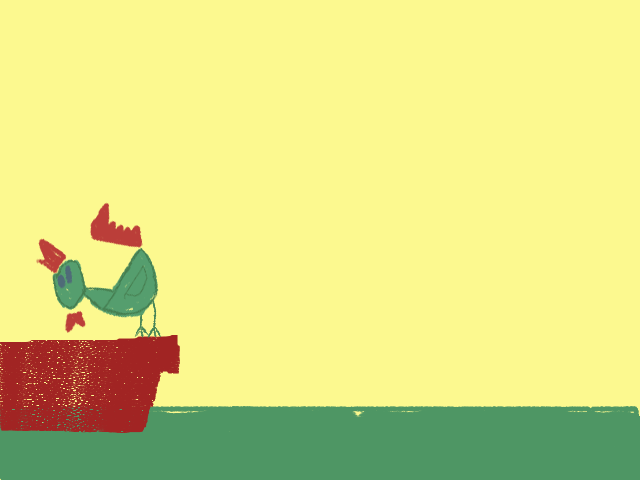
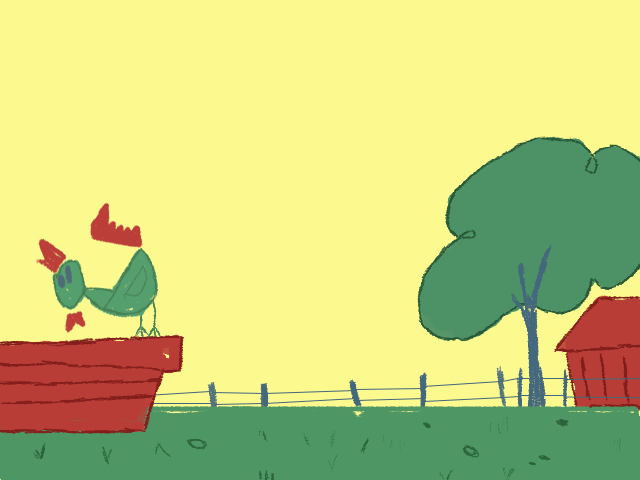
added saute minigame and updated backdrops

diff --git a/src/scenes/Saute.js b/src/scenes/Saute.js
@@ -1,17 +1,16 @@
-class Mixing extends Phaser.Scene {
+class Saute extends Phaser.Scene {
     constructor() {
-        super('sceneMixing')
+        super('sceneSaute')
     }
 
     init() {
         this.score = 0
-        this.stage = 1
-        this.currentTime = 0
         this.roundTime = 8
+        this.stage = 1
     }
 
     create() {
-        this.add.tileSprite(0, 0, 640, 480, 'counterBackdrop').setOrigin(0,0)
+        this.add.tileSprite(0, 0, 640, 480, 'stoveBackdrop').setOrigin(0,0)
 
         // display current round
         this.add.bitmapText(20, 20, 'cartoonPurple_font', "Round " + roundNumber, 40, ).setOrigin(0)
@@ -22,13 +21,16 @@ class Mixing extends Phaser.Scene {
         //score text graphic
         this.scoreText = this.add.bitmapText(600,10, 'cartoonPink_font', this.score, 30)
 
+        // Pat sprite
+        this.patPan = this.add.sprite(centerX, centerY, 'patPan', 1)
+
         //key guide graphic
         this.keysGuide = this.add.sprite(10, 375, 'keyAll', 0).setOrigin(0,0).setScale(0.75)
-        this.keysGuide.play('keyUp-idle', true)
+        this.keysGuide.play('keyLeft-idle', true)
 
-        //mixing bowl sprite
-        this.bowl = this.add.sprite(0, 0, 'bowlMix', 0).setOrigin(0, 0)
-        this.bowl.play('mix1-anim', true)
+        // fire animation
+        this.fireGraphic = this.add.sprite(225, 270, 'fire', 0)
+        this.fireGraphic.play('fire-anim', true)
 
         //clock and text
         this.clockGraphic = this.add.image(550, 400, 'clock').setAlpha(0)
@@ -48,41 +50,30 @@ class Mixing extends Phaser.Scene {
 
         }, null, this)
 
+
     }
 
-    update(){
+
+    update() {
         const { KEYS } = this
 
-        if (Phaser.Input.Keyboard.JustDown(KEYS.UP)) {
+
+        if (Phaser.Input.Keyboard.JustDown(KEYS.LEFT)) {
             if (this.stage == 1) {
                 this.stage += 1
-                this.keysGuide.play('keyLeft-idle', true)
-                this.bowl.play('mix2-anim', true)
-            }
-        }
-        if (Phaser.Input.Keyboard.JustDown(KEYS.LEFT)) {
-            if (this.stage == 2) {
-                this.stage += 1
-                this.keysGuide.play('keyDown-idle', true)
-                this.bowl.play('mix3-anim', true)
-            }
-        }
-        if (Phaser.Input.Keyboard.JustDown(KEYS.DOWN)) {
-            if (this.stage == 3) {
-                this.stage += 1
                 this.keysGuide.play('keyRight-idle', true)
-                this.bowl.play('mix4-anim', true)
+                this.patPan.play('patPanFront-anim', true)
             }
         }
         if (Phaser.Input.Keyboard.JustDown(KEYS.RIGHT)) {
-            if (this.stage == 4) {
+            if (this.stage == 2) {
                 this.stage = 1
-                this.keysGuide.play('keyUp-idle', true)
-                this.bowl.play('mix1-anim', true)
                 this.score += 1
+                this.keysGuide.play('keyLeft-idle', true)
+                this.patPan.play('patPanBack-anim', true)
             }
         }
-        
+
         //score management
         this.scoreText.text = this.score
         
@@ -92,6 +83,5 @@ class Mixing extends Phaser.Scene {
             this.clockGraphic.setAlpha(1)
             this.remainingTime.text = this.currentTime
         }
-        
     }
 }

diff --git a/src/scenes/Transition.js b/src/scenes/Transition.js
@@ -27,6 +27,9 @@ class Transition extends Phaser.Scene {
             } else if (levelType == 1 && roundNumber == 2) {
                 //start mixing
                 this.nextLevelType = 2
+            } else if (levelType == 1 && roundNumber == 3) {
+                // saute
+                this.nextLevelType = 3
             }
 
             //other level
@@ -37,7 +40,12 @@ class Transition extends Phaser.Scene {
             this.nextLevelName = 'sceneEgg'
         } else if (this.nextLevelType == 2) {
             this.nextLevelName = 'sceneMixing'
+        } else if (this.nextLevelType == 3) {
+            this.nextLevelName = 'sceneSaute'
         }
+
+        console.log("Level type: " + this.nextLevelType)
+        console.log("level name: " + this.nextLevelName)
 
         //text management
         this.add.bitmapText(centerX, centerY-70, 'cartoonPink_font', "ROUND START", 64, ).setOrigin(0.5)
@@ -45,8 +53,16 @@ class Transition extends Phaser.Scene {
             this.add.bitmapText(centerX, centerY, 'cartoonPink_font', "Use the LEFT and RIGHT to move", 30, ).setOrigin(0.5)
             this.add.bitmapText(centerX, centerY+30, 'cartoonPink_font', "Catch the eggs with the basket!", 30, ).setOrigin(0.5)
         } else if (this.nextLevelType == 2) {   // mixing level tutorial
-            this.add.bitmapText(centerX, centerY, 'cartoonPink_font', "Press the right keys", 30, ).setOrigin(0.5)
+            this.add.bitmapText(centerX, centerY, 'cartoonPink_font', "Press the keys in order", 30, ).setOrigin(0.5)
             this.add.bitmapText(centerX, centerY+30, 'cartoonPink_font', "Whisk the ingredients!", 30, ).setOrigin(0.5)
+        } else if (this.nextLevelType == 3) {   // saute level tutorial
+            this.add.bitmapText(centerX, centerY, 'cartoonPink_font', "Press the right keys", 30, ).setOrigin(0.5)
+            this.add.bitmapText(centerX, centerY+30, 'cartoonPink_font', "Cook the ingredients in the Pan", 30, ).setOrigin(0.5)
+        }
+
+        // no scene detected failsafe
+        if (this.add.nextLevelName == '') {
+            this.add.nextLevelName = 'sceneMenu'
         }
 
         this.waitTime = this.time.addEvent({

diff --git a/src/scenes/Load.js b/src/scenes/Load.js
@@ -34,9 +34,24 @@ class Load extends Phaser.Scene {
             endFrame: 3
         })
 
+        this.load.spritesheet('patPan', 'patPan.png', {
+            frameWidth: 311,
+            frameHeight: 294,
+            startFrame: 0,
+            endFrame: 1
+        })
+
+        this.load.spritesheet('fire', 'fire.png', {
+            frameWidth: 44,
+            frameHeight: 12,
+            startFrame: 0,
+            endFrame: 1
+        })
+
         // backdrops
         this.load.image('eggBackdrop', 'eggBackdrop.png')
         this.load.image('counterBackdrop', 'counterBackdrop.png')
+        this.load.image('stoveBackdrop', 'stoveBackdrop.png')
         this.load.image('trans1', 'transition1.png')
         this.load.image('trans2', 'transition2.png')
 
@@ -178,6 +193,38 @@ class Load extends Phaser.Scene {
             frames: this.anims.generateFrameNumbers('eggScore', {start: 0, end: 0, first: 0}),
             frameRate: 3,
             repeat: -1
+        })
+
+        // Pat pan forward
+        this.anims.create({
+            key: 'patPanFront-anim',
+            frameRate: 0,
+            repeat: 0,
+            frames: this.anims.generateFrameNumbers('patPan', {
+                frames: [0]
+            })
+        })
+
+        // Pat Pan back
+        this.anims.create({
+            key: 'patPanBack-anim',
+            frameRate: 0,
+            repeat: 0,
+            frames: this.anims.generateFrameNumbers('patPan', {
+                frames: [1]
+            })
+        })
+
+        // fire animation
+        this.anims.create({
+            key: 'fire-anim',
+            frameRate: 8,
+            repeat: -1,
+            frames: this.anims.generateFrameNumbers('fire', {
+                start: 0,
+                end: 1,
+                first: 0
+            })
         })
 
         //console.log("loaded assets, opening key scene")

diff --git a/src/scenes/Win.js b/src/scenes/Win.js
@@ -5,13 +5,22 @@ class Win extends Phaser.Scene {
 
     create() {
         //this.add.text(10, 10, "Round Transition Scene")
-        //console.log("trans scene create")
-
         this.add.tileSprite(0, 0, 640, 480, 'trans2').setOrigin(0,0)
 
-        this.add.bitmapText(centerX, centerY-70, 'cartoonPurple_font', "Well Done", 64, ).setOrigin(0.5)
-        this.add.bitmapText(centerX, centerY, 'cartoonPurple_font', "You completed", 30, ).setOrigin(0.5)
-        this.add.bitmapText(centerX, centerY+30, 'cartoonPurple_font', "Round " + roundNumber, 30, ).setOrigin(0.5)
+        if (roundNumber == 4 && levelType == 1) {
+            this.add.bitmapText(centerX, centerY-70, 'cartoonPurple_font', "Congradulations!", 64, ).setOrigin(0.5)
+            this.add.bitmapText(centerX, centerY, 'cartoonPurple_font', "You made Scrambled Eggs!", 30, ).setOrigin(0.5)
+            
+
+        } else {
+            
+
+            this.add.bitmapText(centerX, centerY-70, 'cartoonPurple_font', "Well Done", 64, ).setOrigin(0.5)
+            this.add.bitmapText(centerX, centerY, 'cartoonPurple_font', "You completed", 30, ).setOrigin(0.5)
+            this.add.bitmapText(centerX, centerY+30, 'cartoonPurple_font', "Round " + roundNumber, 30, ).setOrigin(0.5)
+        }
+
+        
 
         roundNumber += 1
 

diff --git a/src/scenes/Egg.js b/src/scenes/Egg.js
@@ -6,7 +6,7 @@ class Egg extends Phaser.Scene {
     init() {
         this.score = 0
         this.currentTime = 0
-        this.roundTime = 15
+        this.roundTime = 8
         
     }
 
@@ -70,7 +70,7 @@ class Egg extends Phaser.Scene {
 
         }, null, this)
 
-        this.panicTimer = this.time.delayedCall((this.roundTime - 5) * 1000, ()=> {
+        this.panicTimer = this.time.delayedCall((this.roundTime - 3) * 1000, ()=> {
             
 
             this.eggTimer = this.time.addEvent({
@@ -92,7 +92,7 @@ class Egg extends Phaser.Scene {
 
         //time management
         this.currentTime = Phaser.Math.RoundTo((this.roundTime - (this.roundTime * this.clock.getProgress())), 0)
-        if(this.currentTime <= 5 && this.currentTime >= 0) {
+        if(this.currentTime <= 3 && this.currentTime >= 0) {
             this.clockGraphic.setAlpha(1)
             this.remainingTime.text = this.currentTime
         }

diff --git a/src/main.js b/src/main.js
@@ -24,7 +24,7 @@ let config = {
             }
         },
     },
-    scene: [ Load, Keys, Menu, Tutorial, Credits, Transition, Win, Egg, Mixing, Levels ]
+    scene: [ Load, Keys, Menu, Tutorial, Credits, Levels, Transition, Win, Egg, Mixing, Saute]
 }
 
 let game = new Phaser.Game(config)

diff --git a/index.html b/index.html
@@ -15,6 +15,7 @@
     <script src="./src/scenes/Win.js"></script>
     <script src="./src/scenes/Egg.js"></script>
     <script src="./src/scenes/Mixing.js"></script>
+    <script src="./src/scenes/Saute.js"></script>
     <script src="./src/main.js"></script>
 </head>
 <body>
